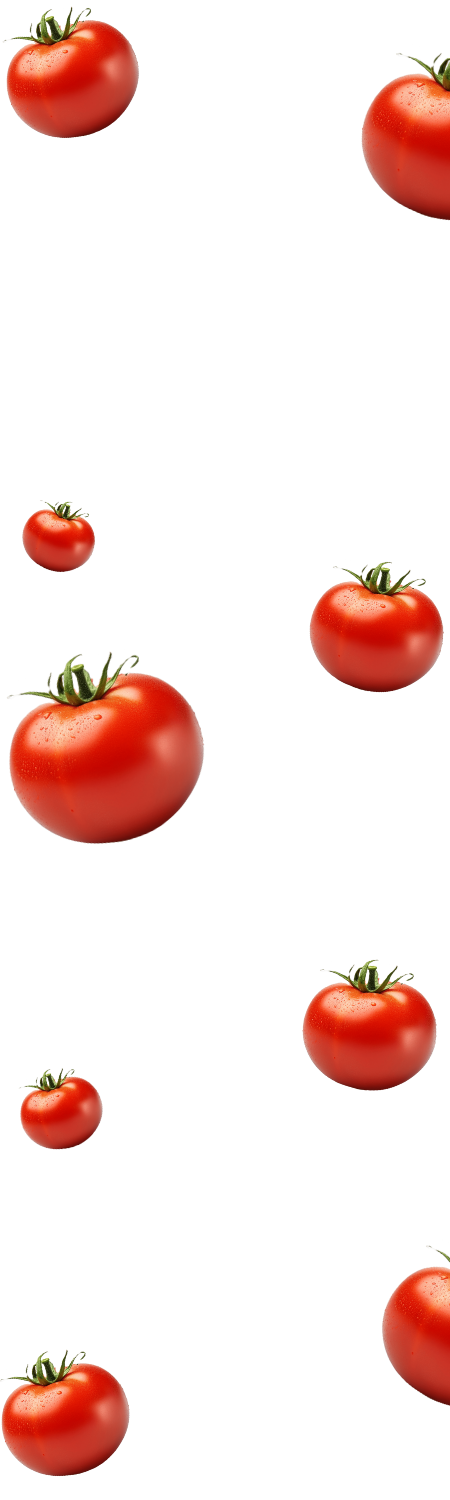
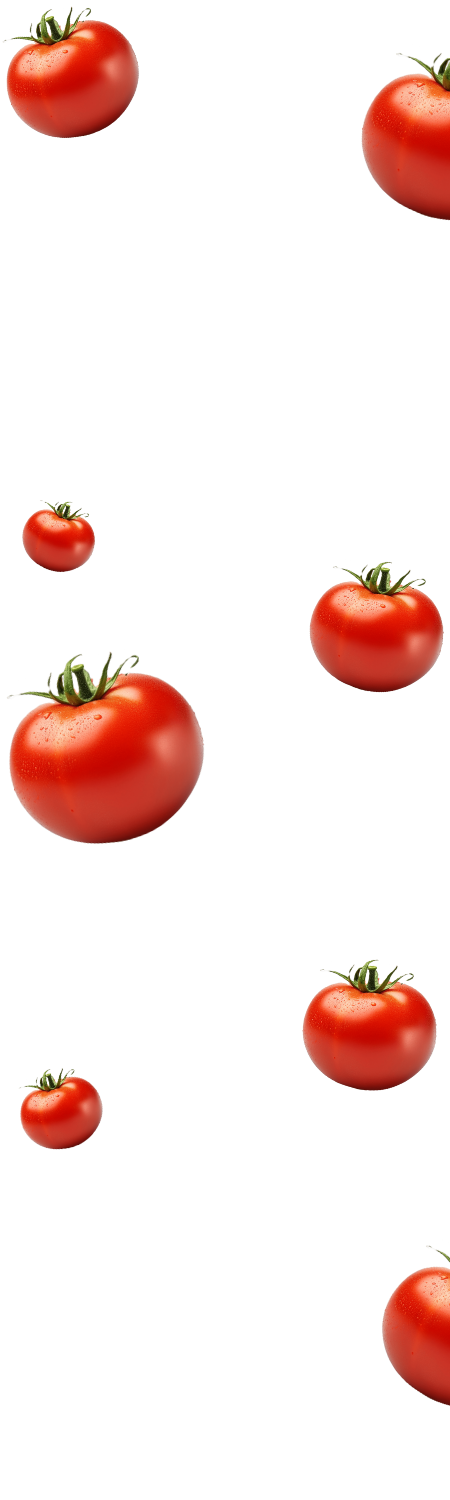
cambiosfondo2

Changed region(s): [[0.0, 0.8893, 0.3111, 1.0]]

diff --git a/index.html b/index.html
@@ -3,7 +3,7 @@
     <script id="pixel-chaty" async="true" src="https://cdn.chaty.app/pixel.js?id=SBxyv70x"></script>
 <head>
     <link rel="apple-touch-icon" href="/path/to/apple-touch-icon.png">
-    <meta name="title" content="El pequeño david - Salsa casera orgánica sin conservantes">
+    <meta name="title" content="El pequeño david - Salsa de tomates orgánica sin conservantes">
     <meta name="description" content="La mejor salsa casera orgánica de tomates de la región, hecha con amor y dedicación.">
     <meta name="keywords" content="salsa de tomates, salsa casera, salsa orgánica, tomates, orgánica, casera, SALSA, SALSA CASERA, CASERA, de salsa, orgánica, Salsa Casera Orgánica El, de Tomates, Tomates, de Mendoza, de molienda">
     <meta name="robots" content="index, follow">
